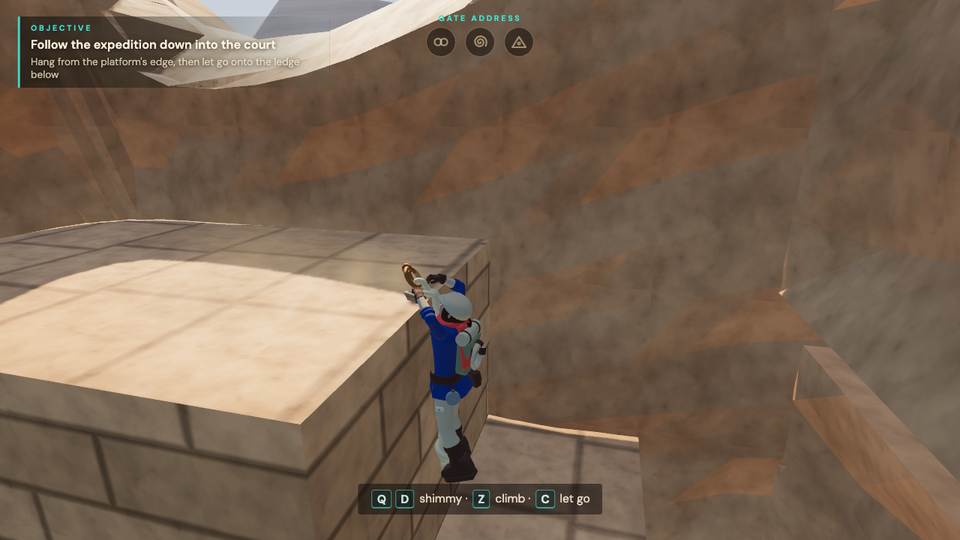
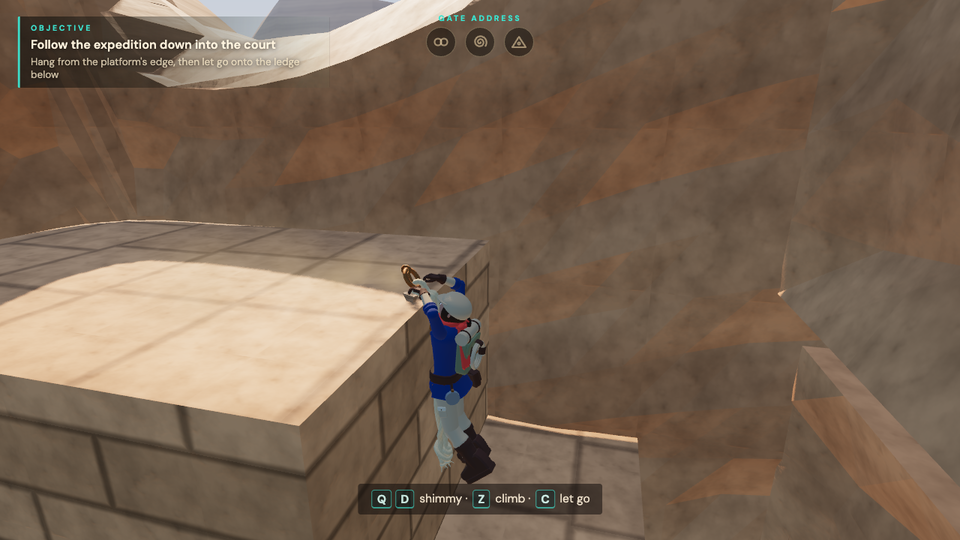
Rest the hanging explorer's palms on the lip, and turn the view about the ruins under the credits
Hanging, the hand's whole turn (the palm flat on the top, the fingers over the stone) is set
before the wrist is placed, so the palm lands where asked instead of being swung off it,
and it rests on the stone rather than 1.5 cm inside it; the legs hang back off the wall.
Under the credits the view now turns slowly and without end about the drowned city. The
credits' recipe line no longer claims three candidates for every object.

diff --git a/game/hero-anim.js b/game/hero-anim.js
@@ -121,6 +121,8 @@ export class HeroAnimator {
       palm: holder.worldToLocal(palmWorld.clone()),
       // The palm faces the thigh at rest: inwards, towards the body's centre line.
       normal: new THREE.Vector3(-s, 0, 0),
+      // From the wrist through the palm towards the fingers, in the hand's frame.
+      fingers: holder.worldToLocal(palmWorld.clone()).normalize(),
       weight: 0,
     };
   }
@@ -285,14 +287,16 @@ export class HeroAnimator {
       if (st === "hang" || !this.climbHold)
         this.climbHold = { x: hand.x, z: hand.z };
       const h = st === "climb" ? this.climbHold : hand;
+      // Each palm flat on the top just behind the lip, its fingers reaching over the stone.
       const g = pair(
         h.x - n.x * 0.03,
-        top - 0.015,
+        top + LIP,
         h.z - n.z * 0.03,
         0.2,
         { side: 0.7, x: n.x * 0.6, y: -0.3, z: n.z * 0.6 },
         V(0, -1, 0),
       );
+      g.left.fingers = g.right.fingers = V(-n.x, 0, -n.z);
       // Shimmying, the leading hand reaches ahead and the other follows.
       if (st === "hang" && hero.shimmy) {
         const lead = hero.shimmy > 0 ? g.left : g.right;
@@ -384,6 +388,8 @@ export class HeroAnimator {
 // target and pole, at the angle the arm's lengths allow, then swing the forearm onto the
 // target, then turn the hand so its palm faces `normal`. `weight` blends from the pose.
 const _v = [0, 1, 2, 3, 4, 5, 6].map(() => new THREE.Vector3());
+// Hanging, the palm's face rests this far over the lip's top.
+export const LIP = 0.004;
 const _q = [0, 1, 2].map(() => new THREE.Quaternion());
 function swing(joint, from, to, weight) {
   const q = _q[0].setFromUnitVectors(from, to);
@@ -395,13 +401,24 @@ function swing(joint, from, to, weight) {
 }
 
 function solveArm(arm, goal, weight) {
+  // Given the fingers' way as well as the palm's, the hand's whole turn is known before the
+  // arm moves: the wrist is then brought to where the palm lands on the goal once the hand
+  // takes that turn. Otherwise the palm itself is brought there and turned after.
+  const turned = arm.hand && goal.fingers ? handTurn(arm, goal) : null;
+  const holder = arm.hand || arm.lower;
+  const end = () =>
+    turned
+      ? arm.hand.getWorldPosition(_v[2])
+      : holder.localToWorld(_v[2].copy(arm.palm));
+  const at = turned
+    ? _v[6].copy(goal.at).sub(arm.palm.clone().applyQuaternion(turned))
+    : _v[6].copy(goal.at);
   const S = arm.upper.getWorldPosition(_v[0]);
   const E = arm.lower.getWorldPosition(_v[1]);
-  const holder = arm.hand || arm.lower;
-  const P = holder.localToWorld(_v[2].copy(arm.palm));
+  const P = end();
   const a = S.distanceTo(E),
     b = E.distanceTo(P);
-  const toT = _v[3].copy(goal.at).sub(S);
+  const toT = _v[3].copy(at).sub(S);
   const d = THREE.MathUtils.clamp(
     toT.length(),
     Math.abs(a - b) + 1e-3,
@@ -427,15 +444,40 @@ function solveArm(arm, goal, weight) {
     elbow.clone().sub(S).normalize(),
     weight,
   );
-  const E2 = arm.lower.getWorldPosition(_v[1]);
-  const P2 = holder.localToWorld(_v[2].copy(arm.palm));
-  const target = _v[6].copy(S).addScaledVector(dir, d);
+  const E2 = arm.lower.getWorldPosition(_v[1]).clone();
+  const P2 = end().clone();
+  const target = S.clone().addScaledVector(dir, d);
   swing(arm.lower, P2.sub(E2).normalize(), target.sub(E2).normalize(), weight);
-  if (arm.hand && goal.normal) {
+  if (turned) {
+    const parent = arm.hand.parent.getWorldQuaternion(_q[2]);
+    const now = arm.hand.getWorldQuaternion(new THREE.Quaternion());
+    arm.hand.quaternion.copy(
+      parent.invert().multiply(now.slerp(turned, weight)),
+    );
+    arm.hand.updateMatrixWorld(true);
+  } else if (arm.hand && goal.normal) {
     const q = arm.hand.getWorldQuaternion(_q[0]);
     const now = arm.normal.clone().applyQuaternion(q);
     swing(arm.hand, now, goal.normal.clone().normalize(), weight);
   }
+}
+
+// The hand's turn in the world that sets its palm facing `goal.normal` and its fingers along
+// `goal.fingers`: the rest frame of palm and fingers carried onto the wanted one.
+function handTurn(arm, goal) {
+  const frame = (n, f) => {
+    const fn = f.clone().addScaledVector(n, -f.dot(n)).normalize();
+    return new THREE.Matrix4().makeBasis(
+      n,
+      fn,
+      new THREE.Vector3().crossVectors(n, fn),
+    );
+  };
+  const rest = frame(arm.normal.clone().normalize(), arm.fingers);
+  const want = frame(goal.normal.clone().normalize(), goal.fingers);
+  return new THREE.Quaternion().setFromRotationMatrix(
+    want.multiply(rest.transpose()),
+  );
 }
 
 function set(pose, name, x = 0, y = 0, z = 0) {
@@ -641,11 +683,13 @@ const POSES = {
     set(pose, "rightLowerArm", -0.12 - 0.3 * Math.max(0, reach));
     set(pose, "spine", -0.08);
     set(pose, "head", -0.32, 0.25 * sh);
-    const sway = sh ? Math.sin(t * 8.5) * 0.18 : Math.sin(t * 1.3) * 0.05;
-    set(pose, "leftUpperLeg", 0.02 + sway, 0, 0.05);
-    set(pose, "rightUpperLeg", -0.05 - sway, 0, -0.05);
-    set(pose, "leftLowerLeg", 0.3 + Math.max(0, sway));
-    set(pose, "rightLowerLeg", 0.22 + Math.max(0, -sway));
+    // The legs hang a little back with the knees bent, so the boots keep off the wall as
+    // they sway.
+    const sway = sh ? Math.sin(t * 8.5) * 0.12 : Math.sin(t * 1.3) * 0.04;
+    set(pose, "leftUpperLeg", 0.16 + sway, 0, 0.05);
+    set(pose, "rightUpperLeg", 0.1 - sway, 0, -0.05);
+    set(pose, "leftLowerLeg", 0.5 + Math.max(0, sway));
+    set(pose, "rightLowerLeg", 0.4 + Math.max(0, -sway));
     root.roll = sh * 0.05 * reach;
   },
 

diff --git a/game/world-four.js b/game/world-four.js
@@ -628,6 +628,10 @@ export class WorldFour {
   }
 }
 
+// The slow turn about the drowned city under the credits: radians a second, its radius over
+// the second ring (clear of the towers between the rings), and how far it rises and sinks.
+const ORBIT = { rate: 0.016, radius: 62, rise: 1 };
+
 // The closing shot's timetable, in seconds from its start.
 const SHOT = {
   // Through the great ring and away over the forest, to wait before the last door.
@@ -716,12 +720,27 @@ class FinaleShot {
       B = this.beyond,
       s = t - SHOT.sea;
     const k = smooth(0, SHOT.end - SHOT.sea, s);
-    const drift = Math.min(s, 120) * 0.15;
     B.position
       .copy(A.gateCenter)
       .add(V(0.1, -0.6, 1.2))
-      .lerp(A.glideEnd, k)
-      .add(V(0, 0, -drift));
+      .lerp(A.glideEnd, k);
+    // Under the credits the view never stops: it turns slowly about the ruins, drawing in over
+    // the second ring and rising and sinking a little, easing in from where the glide ends.
+    const u = Math.max(0, s - (SHOT.end - SHOT.sea));
+    if (u > 0) {
+      const ease = 1 - Math.exp(-u / 5);
+      const turn = ORBIT.rate * (u - 5 * ease);
+      const from0 = Math.hypot(
+        A.glideEnd.x - A.temple.x,
+        A.glideEnd.z - A.temple.z,
+      );
+      const r = from0 + (ORBIT.radius - from0) * smooth(0, 16, u);
+      B.position.set(
+        A.temple.x + Math.sin(turn) * r,
+        A.glideEnd.y + Math.sin(u * 0.2) * ORBIT.rise * ease,
+        A.temple.z + Math.cos(turn) * r,
+      );
+    }
     const from = A.gateCenter.clone().add(V(0, -3.4, -20));
     B.lookAt(this.look.copy(from).lerp(A.temple, k));
     last.viewPose = B;

diff --git a/game/main.js b/game/main.js
@@ -5,7 +5,7 @@ import { ASSET } from "./assetlib.js";
 import { World } from "./world.js";
 import { Level } from "./level.js";
 import { Hero } from "./hero.js";
-import { HeroAnimator, placeholderHero } from "./hero-anim.js";
+import { HeroAnimator, placeholderHero, LIP } from "./hero-anim.js";
 import { FollowCamera } from "./follow-camera.js";
 import { Input } from "./input.js";
 import { TouchControls } from "./touch.js";
@@ -359,9 +359,9 @@ async function load() {
     hero.hands = heroModel.userData.grip.hands;
   scene.add(heroModel);
   animator = new HeroAnimator(heroModel);
-  // Hang at the depth where the palms, not the fingertips, meet the lip.
+  // Hang at the depth where the palms, not the fingertips, rest on the lip.
   const reach = animator.hangReach(0.3);
-  if (reach) hero.hands = reach + 0.015;
+  if (reach) hero.hands = reach - LIP;
   await worldTwo.wire({
     hero,
     heroModel,

diff --git a/game/index.html b/game/index.html
@@ -360,7 +360,7 @@
         <div class="block">
           <h3>Every 3D object</h3>
           <p>Generated as code through the 404 game recipe:</p>
-          <p>a written brief, three candidates, a four-sided check,</p>
+          <p>a written brief, candidates, a four-sided check,</p>
           <p>and a choice made by eye</p>
         </div>
         <div class="block">

diff --git a/receipts/verification-ruins-and-explorer/README.md b/receipts/verification-ruins-and-explorer/README.md
@@ -8,12 +8,14 @@ On 25 September 2026 the owner asked for better graphics: the city under the sea
 - **Fish and rays:** a banded reef fish with a lathed body, a forked tail, tall fins and ringed eyes, and a manta with swept wings and a pale belly ([the shoal under the title](sea-shoal-title.png); [the candidates](../candidates/sea-creatures/README.md)).
 - **The forest's trees and rocks** (`game/forest.js`): on the far country's coarse floor, whose cells of about 7 m run under the true heights over every rise, trees on slopes and hills stood clear of the ground. Trees, ferns, mushrooms and boulders now stand on the lowest ground as drawn under their roots, the trees a little deeper still ([through the forest](forest-trees.png), [the castle's hill](castle-hill.png)).
 - **The explorer** (`hero_explorer`, third pass; [the candidate](../candidates/hero_explorer_v3/README.md)): a face above the scarf with eyes, brows, a nose, a mouth, ears and a jaw, under hair with a short tail; the goggles at the throat; a backpack with a bedroll carrying the rope coil; a canteen; thigh pockets, knee patches and laced boots ([now](explorer.png), [before](explorer-before.png)). The joints, pivots, palms and grip are those of the second pass.
+- **Hanging from a ledge** (`game/hero-anim.js`): the owner saw the hands hang as open claws in front of the lip. The solver placed the palm on its goal and only then turned the hand to face the palm down, which swung the palm about the wrist and left the fingers pointing at the sky or aside, and the goal sat 1.5 cm inside the stone. Now the hand's whole turn is set first (the palm flat on the top, the fingers reaching over the stone), the wrist is brought to where the palm then rests on the lip, and the explorer hangs at the depth where that reach is met; the legs hang a little back with the knees bent, so the boots keep off the wall as they sway ([before](hang-before.png), [after](hang-after.png)).
+- **Under the credits** (`game/world-four.js`): at the owner's request the view no longer drifts to a stop but turns slowly about the drowned city for as long as the credits roll, about a degree a second, easing in from where the glide ends, drawing in over the second ring clear of the towers, and rising and sinking a metre ([turning](credits-orbit-a.png), [further round](credits-orbit-b.png)). The credits' line on the recipe no longer says three candidates, since the last waves had one or two.
 - **The name:** Farseek on the title screen, the tab, the credits and the closing card. The saves keep their `far-door-` keys, and the analytics still run only on `fardoor.rapidoai.dev`.
 
 ## Checks
 
 - **The closing shot, probed:** no page or console error, 60 frames a second throughout, and 217 shader programs before and after the whole shot ([probe](closing-shot-probe.json)).
-- **The whole game:** `node scripts/playthrough.mjs outputs/playthrough` played from the title through the four levels and the closing shot to the credits and back with real keys, with no page or console error; no shader program was compiled in play, 219 at the first start and 219 at the end ([log](playthrough/log.json)). The new explorer hangs, climbs, jumps and pushes as before ([hanging](playthrough/02-hang.png), [on the isles](playthrough/21-isles-jumps.png), [at the ice block](playthrough/31-frost-block.png)); the closing shot reaches the ruins ([the last door](playthrough/36-finale-last-door.png), [the ruins](playthrough/37-finale-sea.png), [the credits](playthrough/38-credits.png)).
+- **The whole game:** `node scripts/playthrough.mjs outputs/playthrough` played from the title through the four levels and the closing shot to the credits and back with real keys, with no page or console error; no shader program was compiled in play, 219 at the first start and 219 at the end; it was played again, with the same result, once the hands were set flat on the lip ([log](playthrough/log.json)). The new explorer hangs, climbs, jumps and pushes as before ([hanging](playthrough/02-hang.png), [on the isles](playthrough/21-isles-jumps.png), [at the ice block](playthrough/31-frost-block.png)); the closing shot reaches the ruins ([the last door](playthrough/36-finale-last-door.png), [the ruins](playthrough/37-finale-sea.png), [the credits](playthrough/38-credits.png)).
 - **Touch:** `node scripts/touch-check.mjs outputs/touch-check` passes 36 of 36 ([log](touch-check.json)).
 - **Menus and level flow:** `node scripts/menu-check.mjs outputs/menu-check` passes 19 of 19 ([results](menu-check.json)).
 - **The relics:** `node scripts/relic-check.mjs outputs/relic-check` passes 32 of 32 ([results](relic-check/results.json)).

diff --git a/docs/resume.md b/docs/resume.md
@@ -91,6 +91,8 @@ The owner then asked for better graphics (Atlantis as ruins, better fish and ray
 - **The creatures:** a banded reef fish (a lathed body, a forked tail, tall dorsal and anal fins, ringed eyes) and a manta with swept wings and a pale belly replace the eighth wave's (`receipts/candidates/sea-creatures/`, two candidates each).
 - **The forest's trees and rocks** stand on the lowest ground as drawn under their roots: the far country's coarse floor runs under the true heights on every rise, so trees on slopes and hills floated.
 - **The explorer** (`hero_explorer`, third pass): the scarf no longer masks the face, which has eyes, brows, a nose, a mouth, ears and a jaw under hair with a short tail; the goggles hang at the throat; a backpack with a bedroll carries the rope coil; a canteen hangs at the left hip; the trousers have thigh pockets and knee patches and the boots are laced. The joints, pivots, palms and grip are unchanged.
+- **Under the credits:** the view turns slowly and without end about the drowned city.
+- **Hanging:** the palms rest flat on the lip with the fingers over it (the hand's turn is set before the wrist is placed), and the legs hang back off the wall.
 - **The name:** Farseek on the title screen, the tab, the credits and the closing card. The saves keep their `far-door-` keys so progress survives, and the analytics run only on `fardoor.rapidoai.dev`.
 
 The latest evidence is in [receipts/verification-ruins-and-explorer](../receipts/verification-ruins-and-explorer/README.md), [receipts/verification-atlantis-ending](../receipts/verification-atlantis-ending/README.md), [receipts/verification-soundtrack-and-grass](../receipts/verification-soundtrack-and-grass/README.md), [receipts/verification-relics-and-forest](../receipts/verification-relics-and-forest/README.md), [receipts/verification-ring-and-climb](../receipts/verification-ring-and-climb/README.md), [receipts/verification-frozen-reach](../receipts/verification-frozen-reach/README.md), [receipts/verification-isles-challenges](../receipts/verification-isles-challenges/README.md), [receipts/verification-jam](../receipts/verification-jam/README.md), [receipts/verification-hosting](../receipts/verification-hosting/README.md) and [receipts/verification-level-3](../receipts/verification-level-3/README.md); the earlier rounds are in [receipts/verification-rework](../receipts/verification-rework/README.md). Nothing after the first rework has been played by hand yet, and no physical phone has played the touch controls.
